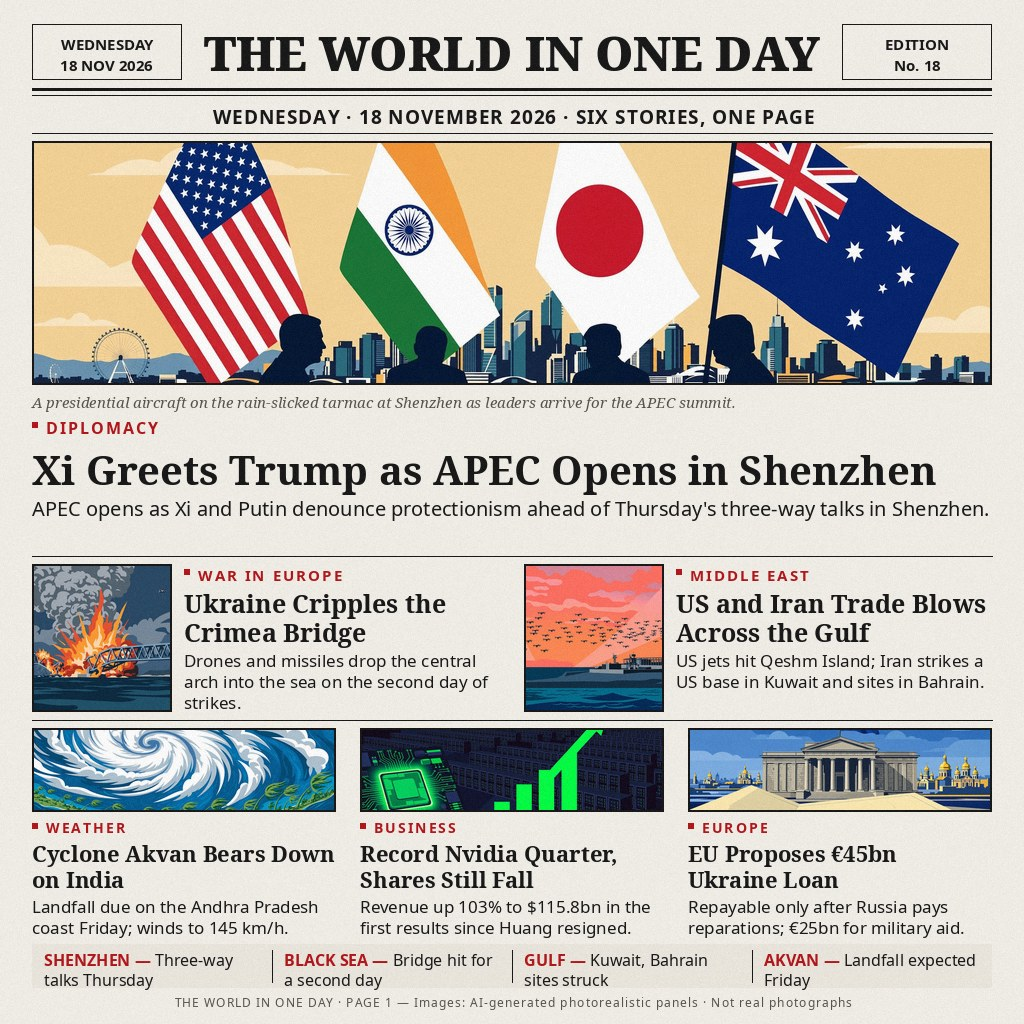
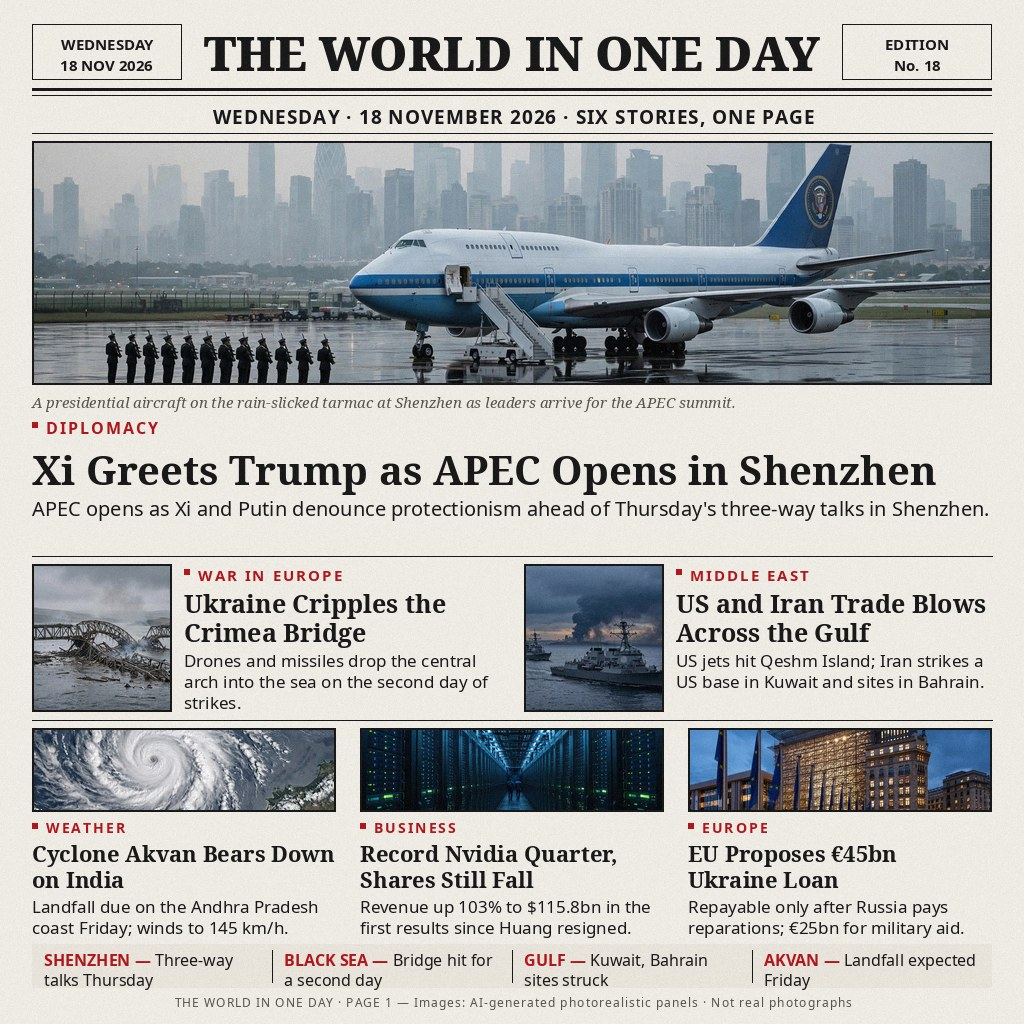
Fix: photorealistic panels for the ensemble layout

diff --git a/render_front_page.py b/render_front_page.py
@@ -26,14 +26,15 @@ MX = 32                      # outer margin
 CW = 960                     # content width
 RX = MX + CW                 # right content edge (992)
 
-PANELS_DIR = os.path.expanduser("~/workspace/makefun/news-image-20261118-panels")
+PANELS_DIR = os.path.expanduser(
+    "~/workspace/makefun/news-image-20261118-panels-photo")
 PANELS = {
-    "lead": "media-generation-panel1-quad-manila-0-701b0b43-3775-4ecf-956c-c73afcc4fb96.webp",
-    "crimea": "media-generation-panel2-crimean-bridge-0-6d3a6d9b-8073-42d1-85b3-3c3bd46d18cb.webp",
-    "gulf": "media-generation-panel3-iran-drones-0-ae0fc9b4-314f-4052-9157-a59c84029d5c.webp",
-    "cyclone": "media-generation-panel4-cyclone-0-c9fe8f91-816b-4e8b-be84-b788feb21c36.webp",
-    "nvidia": "media-generation-panel5-nvidia-0-0403bc42-0437-486c-b209-6ec835411acf.webp",
-    "eu": "media-generation-panel6-eu-ukraine-0-9ca0146c-6f2c-4b1e-9785-edbbf5b126eb.webp",
+    "lead": "panel1-apec.jpg",
+    "crimea": "panel2-crimea.jpg",
+    "gulf": "panel3-gulf.jpg",
+    "cyclone": "panel4-cyclone.jpg",
+    "nvidia": "panel5-nvidia.jpg",
+    "eu": "panel6-eu.jpg",
 }
 
 # ---------------------------------------------------------------- fonts
@@ -199,11 +200,11 @@ def main():
 
     # ---- row A: two stories, photo left ----------------------------------
     row_a = [
-        ("crimea", 0.72, 0.55, "War in Europe",
+        ("crimea", 0.45, 0.55, "War in Europe",
          "Ukraine Cripples the Crimea Bridge",
          "Drones and missiles drop the central arch into the sea on the "
          "second day of strikes."),
-        ("gulf", 0.5, 0.5, "Middle East",
+        ("gulf", 0.55, 0.5, "Middle East",
          "US and Iran Trade Blows Across the Gulf",
          "US jets hit Qeshm Island; Iran strikes a US base in Kuwait and "
          "sites in Bahrain."),
